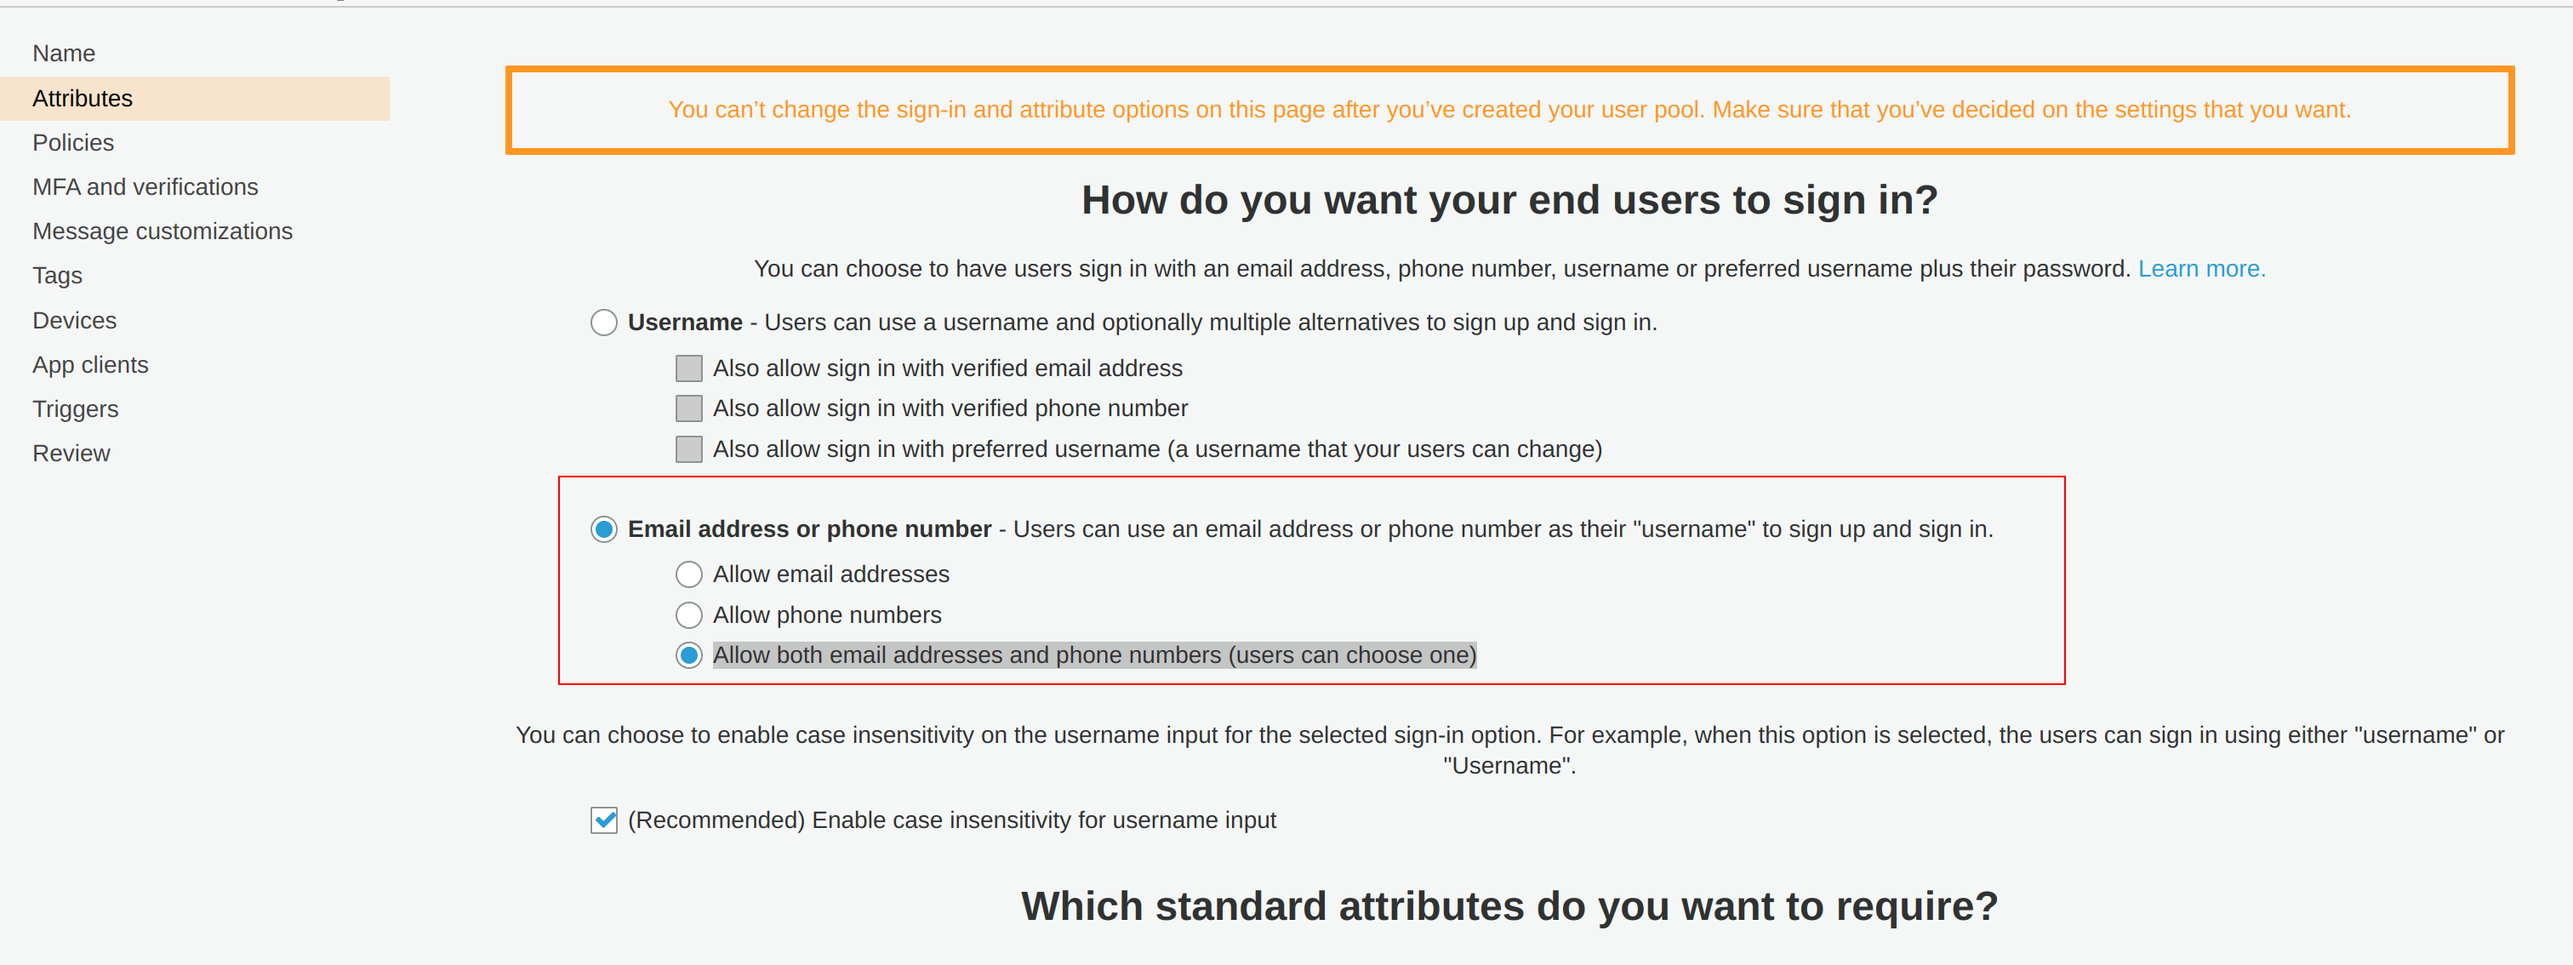
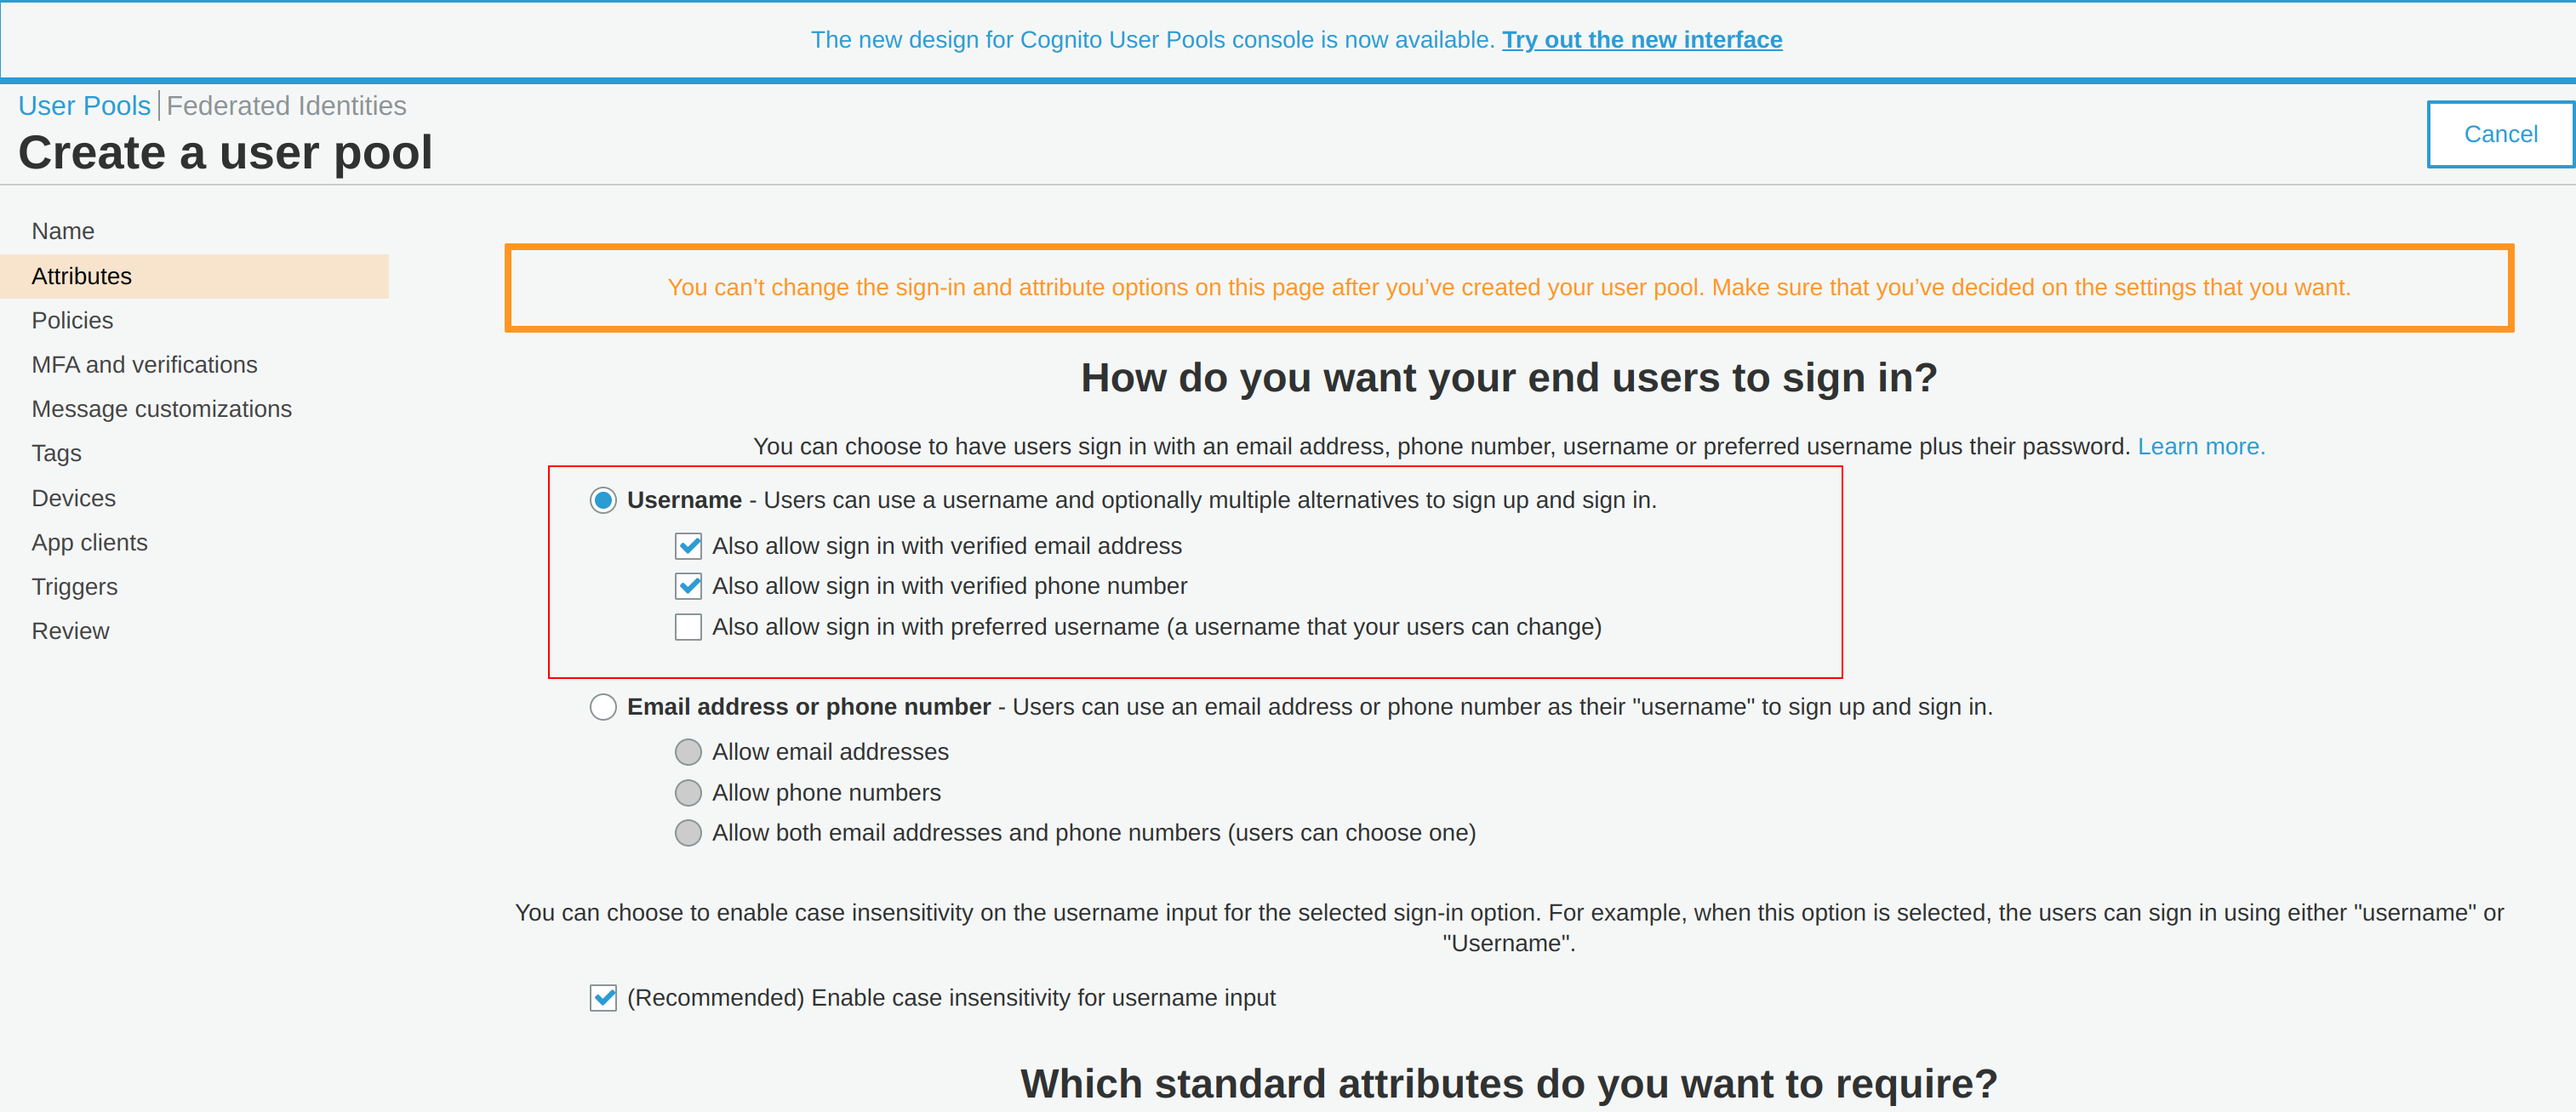
updated

diff --git a/auth.js b/auth.js
@@ -53,6 +53,15 @@ class Auth {
     };
   }
 
+  getUserInfo = async (accessToken) => {
+    const info = await this.cognitoExpress.validate(accessToken);
+    return {
+      username: info.username,
+      sub: info.sub,
+      groups: info["cognito:groups"],
+    };
+  };
+
   auth = (req) => {
     let accessTokenFromClient = req.headers["Authorization"] || req.headers["authorization"];
     if (!accessTokenFromClient) return res.status(401).send("Access Token missing from header");
@@ -70,7 +79,11 @@ class Auth {
         return res.status(401).send({ name: "AuthError", message: "Only Admin can access" });
       }
 
-      req.userSub = response.sub;
+      req.user = {
+        username: response.username,
+        sub: response.sub,
+        groups,
+      };
 
       next();
     } catch (error) {
@@ -87,7 +100,11 @@ class Auth {
         return res.status(401).send({ name: "AuthError", message: "Only users can access" });
       }
 
-      req.userSub = response.sub;
+      req.user = {
+        username: response.username,
+        sub: response.sub,
+        groups,
+      };
 
       next();
     } catch (error) {
@@ -104,13 +121,12 @@ class Auth {
 }
 
 Auth.prototype._signUp = async function (user) {
-  const email = user.email.toLowerCase();
   const params = {
     ClientId: this.clientId,
     Password: user.password,
-    Username: email,
+    Username: user.username,
     UserAttributes: [
-      { Name: "email", Value: email },
+      { Name: "email", Value: user.email },
       { Name: "phone_number", Value: user.phone },
     ],
   };
@@ -124,12 +140,12 @@ Auth.prototype.signUpAdmin = async function (user) {
   const params = {
     GroupName: Groups.admin,
     UserPoolId: this.poolId,
-    Username: user.email.toLowerCase(),
+    Username: user.username,
   };
 
   await this.cognitoIdentity.adminAddUserToGroup(params).promise();
 
-  return res.UserSub;
+  return res;
 };
 
 Auth.prototype.signUpUser = async function (user) {
@@ -138,19 +154,19 @@ Auth.prototype.signUpUser = async function (user) {
   const params = {
     GroupName: Groups.user,
     UserPoolId: this.poolId,
-    Username: user.email.toLowerCase(),
+    Username: user.username,
   };
 
   await this.cognitoIdentity.adminAddUserToGroup(params).promise();
 
-  return res.UserSub;
+  return res;
 };
 
-Auth.prototype.confirmSignUp = async function (email, otp) {
+Auth.prototype.confirmSignUp = async function (username, otp) {
   const params = {
     ClientId: this.clientId,
     ConfirmationCode: otp,
-    Username: email.toLowerCase(),
+    Username: username,
   };
 
   return await this.cognitoIdentity.confirmSignUp(params).promise();
@@ -161,7 +177,7 @@ Auth.prototype.login = async function (user) {
     AuthFlow: "USER_PASSWORD_AUTH",
     ClientId: this.clientId,
     AuthParameters: {
-      USERNAME: user.email.toLowerCase(),
+      USERNAME: user.username,
       PASSWORD: user.password,
     },
   };
@@ -196,21 +212,21 @@ Auth.prototype.toggleMFA = async function (accessToken, on) {
   return await this.cognitoIdentity.setUserMFAPreference(params).promise();
 };
 
-Auth.prototype.forgotPassword = async function (email) {
+Auth.prototype.forgotPassword = async function (username) {
   const params = {
     ClientId: this.clientId,
-    Username: email.toLowerCase(),
+    Username: username,
   };
 
   return await this.cognitoIdentity.forgotPassword(params).promise();
 };
 
-Auth.prototype.confirmForgotPassword = async function (email, confirmCode, password) {
+Auth.prototype.confirmForgotPassword = async function (username, confirmCode, password) {
   const params = {
     ClientId: this.clientId,
     ConfirmationCode: confirmCode,
     Password: password,
-    Username: email.toLowerCase(),
+    Username: username,
   };
   return await this.cognitoIdentity.confirmForgotPassword(params).promise();
 };

diff --git a/example.js b/example.js
@@ -34,9 +34,8 @@ app.post("/auth/signup", async (req, res) => {
 
   try {
     const result = await auth.signUpUser(user);
-    // result is UserSub and represending user id in cognito
 
-    return res.status(200).end();
+    return res.status(200).json(result);
   } catch (error) {
     return res.status(400).json(error);
   }
@@ -47,9 +46,8 @@ app.post("/auth/signup/admin", async (req, res) => {
 
   try {
     const result = await auth.signUpAdmin(user);
-    // result is UserSub and represending user id in cognito
 
-    return res.status(200).end();
+    return res.status(200).json(result);
   } catch (error) {
     return res.status(400).json(error);
   }
@@ -57,8 +55,8 @@ app.post("/auth/signup/admin", async (req, res) => {
 
 app.post("/auth/confirmSignUp", async (req, res) => {
   try {
-    const user = req.body;
-    const result = await auth.confirmSignUp(user.email, user.otp);
+    const { username, otp } = req.body;
+    const result = await auth.confirmSignUp(username, otp);
 
     return res.json(result);
   } catch (error) {
@@ -69,8 +67,15 @@ app.post("/auth/confirmSignUp", async (req, res) => {
 app.post("/auth/login", async (req, res) => {
   const user = req.body;
   try {
-    const result = await auth.login(user);
-    return res.status(200).json(result);
+    const authResult = await auth.login(user);
+    if (!authResult.ChallengeName) {
+      const userInfo = await auth.getUserInfo(authResult.AuthenticationResult.AccessToken);
+      authResult.username = userInfo.username;
+      authResult.groups = userInfo.groups;
+    }
+
+    return res.status(200).json(authResult);
+  
   } catch (error) {
     return res.status(400).json(error);
   }
@@ -107,7 +112,7 @@ app.post("/auth/toggle-mfa", async (req, res) => {
 
 app.post("/auth/forgot-password", async (req, res) => {
   try {
-    const result = await auth.forgotPassword(req.body.email);
+    const result = await auth.forgotPassword(req.body.username);
     return res.json(result);
   } catch (error) {
     return res.status(400).json(error);
@@ -116,8 +121,8 @@ app.post("/auth/forgot-password", async (req, res) => {
 
 app.post("/auth/confirm-forgot-password", async (req, res) => {
   try {
-    const { email, code, password } = req.body;
-    const result = await auth.confirmForgotPassword(email, code, password);
+    const { username, code, password } = req.body;
+    const result = await auth.confirmForgotPassword(username, code, password);
     return res.json(result);
   } catch (error) {
     return res.status(400).json(error);
@@ -134,11 +139,11 @@ app.post("/auth/refresh-token", async (req, res) => {
   }
 });
 
-app.get("/admin-only", auth.adminOnly, async (req, res) => {
+app.get("/users/all", auth.adminOnly, async (req, res) => {
   res.status(200).send("Admin access");
 });
 
-app.get("/user-only", auth.userOnly, async (req, res) => {
+app.get("/users/user-only", auth.userOnly, async (req, res) => {
   res.status(200).send("User access");
 });
 

diff --git a/README.md b/README.md
@@ -2,12 +2,12 @@
 
 ## Setup Cognito
 
-This guid assumes that you are working on the old dashboard. (See 01 ~ 11.png in assets)
+This guid assumes that you are working on the old dashboard. (See 01 ~ 13.png in assets)
 
 1. Go to cognito console in AWS and click `"Manage User Pools"`.
 2. Click `"Create a user pool"`.
 3. Step 1 (Name): Add pool name and choose "Step through settings".
-4. Step 2 (Attributes): Select `"Allow both email addresses and phone numbers (users can choose one)"` option under `"Email addresss or phone number"`, choose `email` and `phone number` as required Attributes and click `Next step`.
+4. Step 2 (Attributes): Select `"Allow both email addresses and phone numbers (users can choose one)"` option under `"Username"`, choose `email` and `phone number` as required Attributes and click `Next step`.
 5. Step 3 (Policies): Go `Next step`.
 6. Step 4 (MFA and verifications) \
 You can skip this step by clicking `Next step` if you don't want MFA.
@@ -32,12 +32,136 @@ You can add app client later if you forget to add it in this step.
 11. Step 9 (Triggers): Go `Next step`.
 12. Step 10 (Review): Create pool.
 13. After creation, you can find the `pool id` in General settings page.
+14. Create 2 user groups named `"Admin"` and `"User"`.
+- Go to `users and groups` page and select `"Groups"` tab.
 
 ---
 
 ## IAM
-To create user group or add a user into a specific user group, you need `AmazonCognitoPowerUser` IAM role and set `AWS_ACCESS_KEY_ID` and `AWS_SECRET_ACCESS_KEY`  when you ceate auth instance. (see 12.png)
+To create user group or add a user into a specific user group, you need `AmazonCognitoPowerUser` IAM role and set `AWS_ACCESS_KEY_ID` and `AWS_SECRET_ACCESS_KEY`  when you ceate auth instance. (see 14.png)
 
 ---
 
 ## API usage
+1. Init Auth
+```
+require("dotenv").config();
+
+const Auth = require("./auth");
+
+const auth = new Auth(
+  process.env.AWS_ACCESS_KEY_ID,
+  process.env.AWS_SECRET_ACCESS_KEY,
+  process.env.POOL_ID,
+  process.env.CLIENT_ID,
+  process.env.REGION,
+  process.env.TOKEN_EXPIRATION
+);
+
+- AWS_ACCESS_KEY_ID: AWS_ACCESS_KEY_ID which has AmazonCognitoPowerUser IAM role
+- AWS_SECRET_ACCESS_KEY: AWS_SECRET_ACCESS_KEY which has AmazonCognitoPowerUser IAM role
+- POOL_ID: Cognito User Pool Id
+- CLIENT_ID: Cognito app client id which is created in the user pool.
+- REGION: AWS REGION where the user pool is created.
+- TOKEN_EXPIRATION: token expiration seconds (number)
+```
+
+2. Signup
+
+Sign up function for `User` user group.
+
+```
+const result = await auth.signUpUser(user);
+
+user is a json object. required fields:
+{
+    "username": String,
+    "email": String,
+    "password": String,
+    "phone": String (required country code and "+" prefix)
+}
+```
+
+3. SignupAdmin
+
+Sign up function for `Admin` user group.
+
+```
+const result = await auth.signUpAdmin(user);
+
+user is a json object. required fields:
+{
+    "username": String
+    "email": String,
+    "password": String,
+    "phone": String (required country code and "+" prefix)
+}
+```
+
+4. Confirm Signup
+
+Confirm signup with otp which is sent to the provided email.
+
+```
+const { username, otp } = req.body;
+const result = await auth.confirmSignUp(username, otp);
+```
+
+5. Login
+```
+const result = await auth.login(user);
+{
+    "username": String,
+    "password": String,
+}
+```
+
+6. logout
+```
+let accessTokenFromClient = req.headers["Authorization"] || req.headers["authorization"];
+accessTokenFromClient = accessTokenFromClient.replace("Bearer ", "");
+
+const result = await auth.logout(accessTokenFromClient);
+```
+
+7. Forgot password
+```
+const result = await auth.forgotPassword(req.body.username);
+```
+
+8. Confirm forgot password
+```
+const { username, code, password } = req.body;
+const result = await auth.confirmForgotPassword(username, code, password);
+```
+
+9. Refresh token
+for token refresh.
+```
+const { refreshToken } = req.body;
+const result = await auth.refreshToken(refreshToken);
+```
+
+10. Admin only auth middleware
+```
+app.get("/admin-only", auth.adminOnly, async (req, res) => {
+  console.log(req.user);
+  res.status(200).send("Admin access");
+});
+```
+middleware will return user in request.
+
+11. User only auth middleware
+```
+app.get("/user-only", auth.userOnly, async (req, res) => {
+  console.log(req.user);
+  res.status(200).send("User access");
+});
+```
+middleware will return user in request.
+
+12. getUserInfo
+Get user info from access token.
+```
+const userInfo = await auth.getUserInfo(accessToken);
+```
